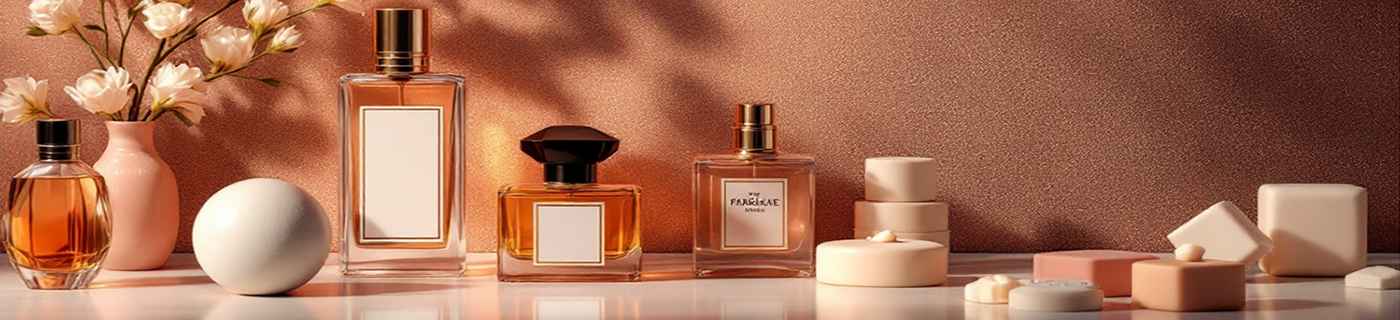
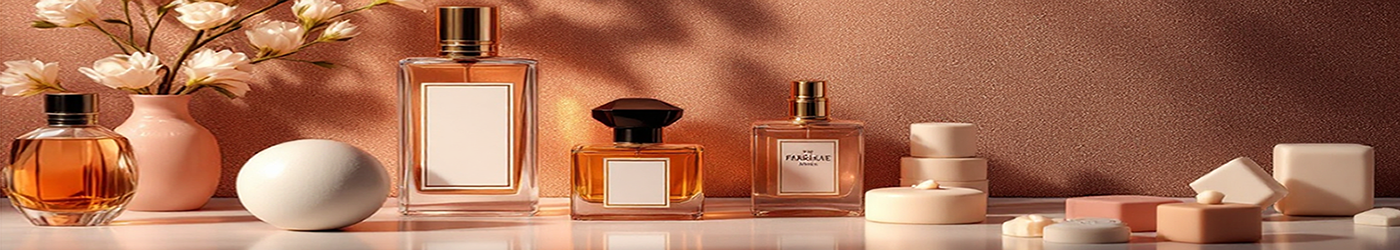
[mnx-000] Resize images and card.

diff --git a/showcase-angular-php-master/src/app/components/card-product/card-product.component.scss b/showcase-angular-php-master/src/app/components/card-product/card-product.component.scss
@@ -2,46 +2,49 @@
 
 $product-card-img-size: $padding-200;
 $product-card-width: $product-card-img-size;
-$product-card-height: $padding-390 + $padding-20;
+$product-card-height: $padding-325;
 $product-card-box-shadow: 0 $padding-02 $padding-08 rgba(0,0,0,0.04);
 
-$product-card-mobile-height: $padding-305 + $padding-20;
-$product-card-mobile-img-height: $padding-165;
+$product-card-img-height: $padding-165;
 
 .product-title {
-  font-size: $font-size-19;
+  overflow: hidden;
+  font-size: $font-size-17;
+  max-height: $padding-32;
   text-align: center;
-  font-weight: bold;
-  padding-top: $padding-20;
-  margin-bottom: $padding-08;
+  font-weight: 600;
+  padding-top: 0;
+  white-space: nowrap;
+  margin-bottom: $padding-04;
+  text-overflow: ellipsis;
 }
 
 .product-description {
   color: $color-gray-700;
-  width: 100%; // enforce no horizontal stretching
+  width: 100%;
   height: calc(2 * 1.3em);
-  resize: none; // prevent resizing
+  resize: none;
   display: -webkit-box;
-  font-size: $font-size-17;
+  font-size: $font-size-14;
   overflow: hidden;
   text-align: center;
-  min-height: calc(2 * 1.3em); // exactly 2 lines
+  min-height: calc(2 * 1.3em);
   max-height: calc(2 * 1.3em);
   line-height: 1.3;
   white-space: normal;
   text-overflow: ellipsis;
   -webkit-line-clamp: 2;
   -webkit-box-orient: vertical;
+  margin-bottom: $padding-04;
 }
 
 .card-product-image-wrapper {
-  width: $product-card-img-size;
-  height: $product-card-img-size;
-  margin: 0 auto;
-  padding: 0;
+  width: 100%;
+  height: $product-card-img-height;
   display: flex;
-  box-sizing: border-box;
+  max-width: 100%;
   align-items: center;
+  margin-bottom: $padding-08;
   justify-content: center;
 }
 
@@ -50,7 +53,11 @@ $product-card-mobile-img-height: $padding-165;
   height: $product-card-height;
   margin: 0 auto;
   display: flex;
-  align-items: center;
+  padding: $padding-08;
+  box-sizing: border-box;
+  min-height: 0;
+  max-height: 100vw;
+  align-items: stretch;
   flex-direction: column;
   justify-content: flex-start;
 }
@@ -60,11 +67,12 @@ $product-card-mobile-img-height: $padding-165;
 }
 
 .card-product-image {
-  width: $product-card-img-size;
-  height: $product-card-img-size;
+  width: auto;
+  height: 100%;
   margin: 0 auto;
   display: block;
-  object-fit: cover;
+  max-width: 100%;
+  object-fit: contain;
   border-top-left-radius: $border-radius-06;
   border-top-right-radius: $border-radius-06;
 }
@@ -72,19 +80,23 @@ $product-card-mobile-img-height: $padding-165;
 .product-review-stars {
   display: flex;
   align-items: center;
-  margin-top: $padding-08;
+  margin-top: 0;
+  margin-bottom: $padding-08;
   justify-content: center;
 }
 
 .add-to-cart-btn {
   color: $color-white;
-  width: 180px; // fixed width
+  width: $padding-140;
   border: none;
-  margin: $padding-16 auto 0;
+  margin: $padding-04 auto 0 auto;
+  padding: $padding-04 $padding-08;
   display: block;
-  min-width: 180px;
-  max-width: 180px;
-  font-size: $font-size-17;
+  min-width: $padding-140;
+  max-width: $padding-140;
+  font-size: $font-size-14;
+  align-self: center;
+  min-height: $padding-32;
   box-sizing: border-box;
   box-shadow: $product-card-box-shadow;
   transition: background 0.2s;
@@ -95,83 +107,5 @@ $product-card-mobile-img-height: $padding-165;
   &:focus {
     color: $color-white;
     background: $color-blue;
-  }
-}
-
-@media (max-width: 600px) {
-  :host ::ng-deep .p-card {
-    height: $product-card-mobile-height;
-    padding: $padding-08;
-    display: flex;
-    box-sizing: border-box;
-    min-height: 0;
-    max-height: 100vw;
-    align-items: stretch;
-    flex-direction: column;
-  }
-
-  .card-product-image-wrapper {
-    width: 100%;
-    height: $product-card-mobile-img-height;
-    display: flex;
-    max-width: 100%;
-    align-items: center;
-    margin-bottom: $padding-08;
-    justify-content: center;
-  }
-
-  .card-product-image {
-    height: 100%;
-    width: auto;
-    max-width: 100%;
-    object-fit: contain;
-    border-top-left-radius: $border-radius-06;
-    border-top-right-radius: $border-radius-06;
-  }
-  .product-title {
-    overflow: hidden;
-    font-size: $font-size-17;
-    max-height: $padding-32;
-    text-align: center;
-    font-weight: 600;
-    padding-top: 0;
-    white-space: nowrap;
-    margin-bottom: $padding-04;
-    text-overflow: ellipsis;
-  }
-
-  .product-description {
-    width: 100%;
-    resize: none;
-    height: calc(2 * 1.3em);
-    display: -webkit-box;
-    overflow: hidden;
-    font-size: $font-size-14;
-    min-height: calc(2 * 1.3em);
-    max-height: calc(2 * 1.3em);
-    line-height: 1.3;
-    white-space: normal;
-    margin-bottom: $padding-04;
-    text-overflow: ellipsis;
-    -webkit-line-clamp: 2;
-    -webkit-box-orient: vertical;
-  }
-
-  .product-review-stars {
-    margin-top: 0;
-    margin-bottom: $padding-08;
-  }
-
-  .add-to-cart-btn {
-    width: $padding-140; // fixed width for mobile
-    margin: $padding-04 auto 0 auto;
-    padding: $padding-04 $padding-08;
-    display: block;
-    min-width: $padding-140;
-    max-width: $padding-140;
-    box-sizing: border-box;
-    font-size: $font-size-14;
-    align-self: center;
-    min-height: $padding-32;
   }
 }

diff --git a/showcase-angular-php-master/src/styles/_variables.scss b/showcase-angular-php-master/src/styles/_variables.scss
@@ -30,6 +30,7 @@ $padding-200: 200px;
 $padding-300: 300px;
 $padding-305: 305px;
 $padding-315: 315px;
+$padding-325: 325px;
 $padding-390: 390px;
 $padding-400: 400px;
 $padding-600: 600px;
